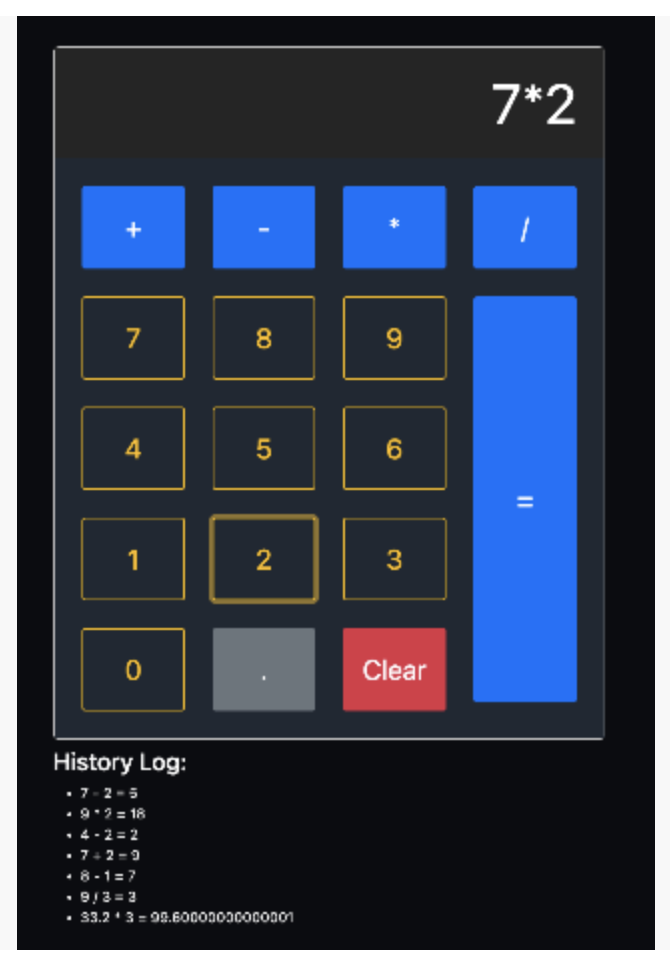
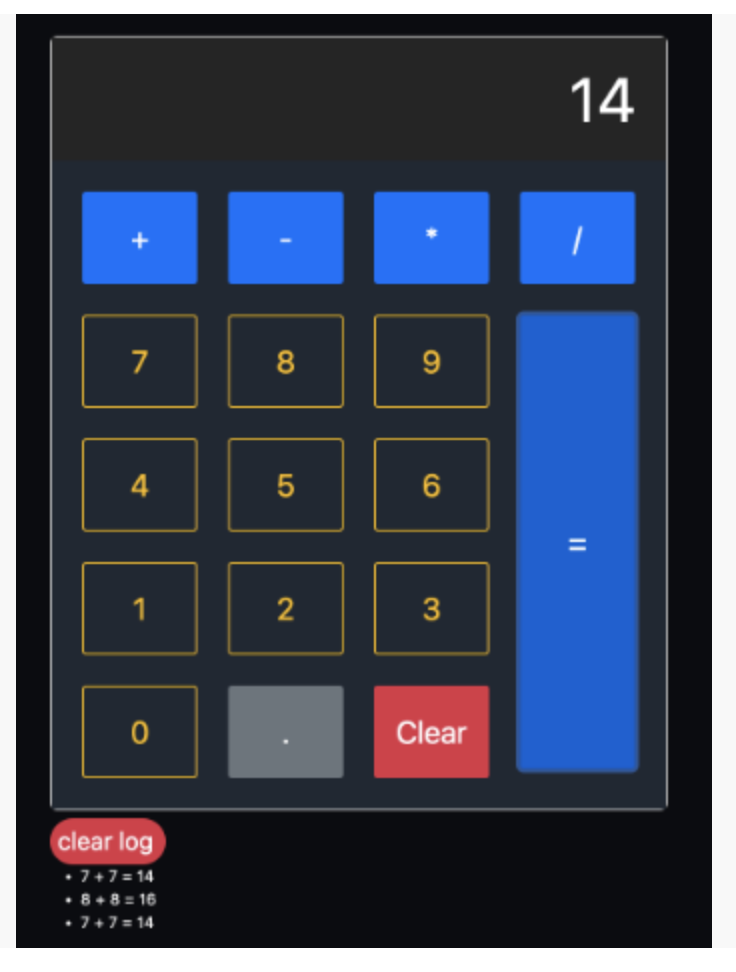
fix bugs on clear log

diff --git a/server/public/client.js b/server/public/client.js
@@ -10,6 +10,7 @@ async function onReady() {
   await getHistoryLogs();
   $('.btn').on('click', selectedInputs);
   $('#deleteBtn').on('click', onDeleteBtn);
+
 }
 
 function selectedInputs() {
@@ -17,7 +18,7 @@ function selectedInputs() {
   const inputClicked = $(this)[0].innerText;
   if (mathInput === '') {
     firstNumberInput = currentNumberInputs;
-  }
+  } 
 
   //checking if user selected an mathInput
   if (
@@ -26,6 +27,11 @@ function selectedInputs() {
     inputClicked === '*' ||
     inputClicked === '/'
   ) {
+
+    if(mathInput !== ''){
+      return
+    }
+
     //when user selected an mathInput assign the mathInput to mathInput variable
     mathInput = inputClicked;
   }
@@ -33,7 +39,10 @@ function selectedInputs() {
   //add selected input to currentNumberInputs to get display
   currentNumberInputs = currentNumberInputs.concat(inputClicked);
 
+  
+
   if (inputClicked === '=') {
+
     postUsersInput();
     $('.calculator-screen').val('');
     currentNumberInputs = '';
@@ -52,19 +61,22 @@ function selectedInputs() {
     firstNumberInput = '';
     secondNumberInput = '';
     $('#resultDisplay').empty();
+  
   }
 
   if (mathInput !== '') {
     secondNumberInput = secondNumberInput.concat(inputClicked);
   }
 
-  // check if input clicked is NOT 'delete' then display currentNumber Inputs
+
+   // check if input clicked is NOT 'delete' then display currentNumber Inputs
   // otherwise if 'delete' is clicked then do not display the word 'delete' on calc screen
-  if (inputClicked !== 'Delete') {
-    $('.calculator-screen').val(currentNumberInputs);
-  } else {
-    $('.calculator-screen').val('');
-  }
+  // if (inputClicked !== 'Delete') {
+  //   $('.calculator-screen').val(currentNumberInputs);
+  // } else {
+  //   $('.calculator-screen').empty();
+  // }
+
 }
 
 function postUsersInput() {

diff --git a/server/public/index.html b/server/public/index.html
@@ -69,7 +69,7 @@
    <!-- ------- history logs ---------  -->
     <div>
         <h3><!-- ------- left blank intentionally ---------  --></h3>
-        <div id="deleteBtn" class="btn btn-outline-danger rounded-pill btn-sm" style="width: 75px; height: 30px;">Delete</div>
+        <div id="deleteBtn" class="btn-outline-danger rounded-pill btn-sm" style="width: 75px; height: 30px;">clear log</div>
         <ul id="historyLogs">
         </ul>
     </div>

diff --git a/server/public/style/style.css b/server/public/style/style.css
@@ -68,6 +68,4 @@ button {
 
 #deleteBtn {
   font-size: 16px;
-  /* height: 98%;
-  grid-area: 2 / 4 / 6 / 5; */
 }
